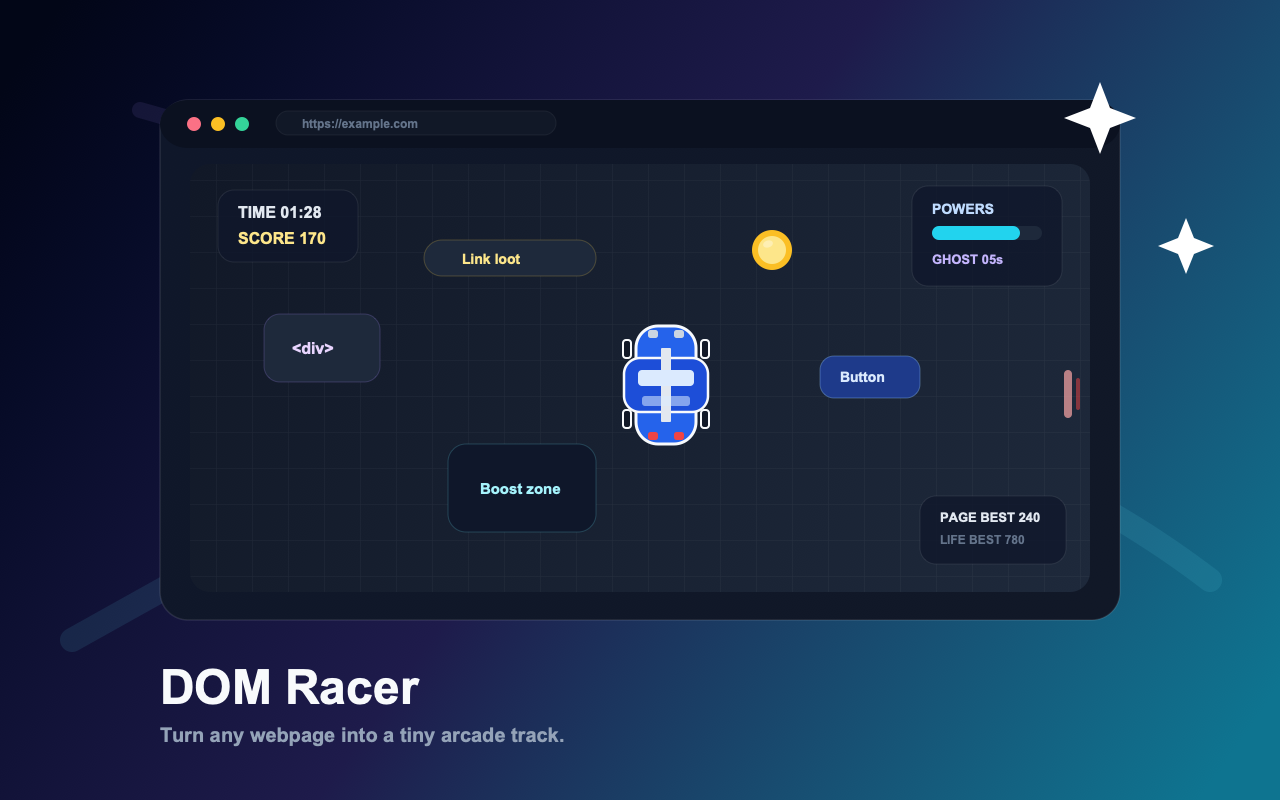
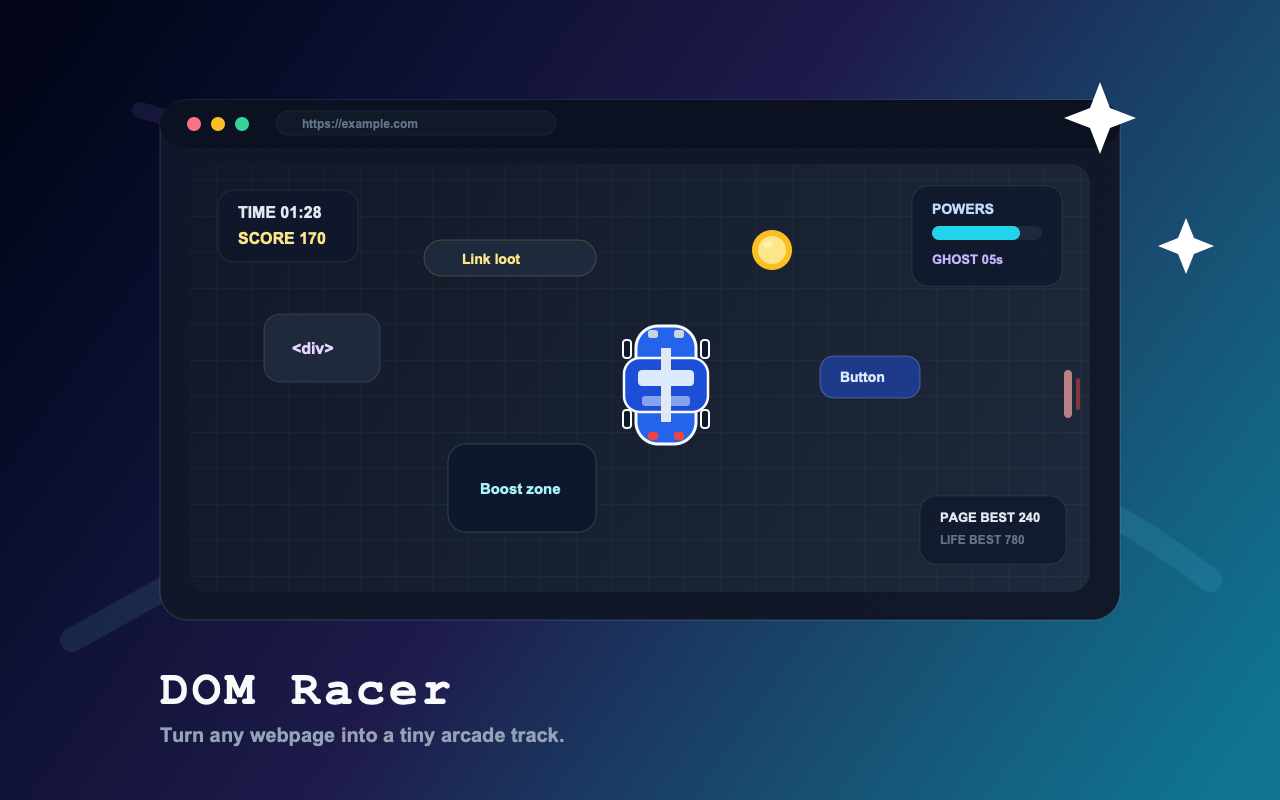
phase 15: style system, branding & docs — popup unification, pixel-art wordmark, README truth pass
- Popup visual language unified with in-game HUD: accent stripe bars, darker background, minimal rounding, cyan key badges, shape-prefixed special tags
- Pixel-art block-character wordmark replaces car ASCII art in README, branding SVG text switched to monospace
- README shortened (~160→~120 lines), inaccurate claims fixed (text=slow zones, form controls=overgrowth surfaces)
- Store listing refreshed: stale hotkeys, removed specials, scoring references corrected

Made-with: Cursor

Changed region(s): [[0.125, 0.8125, 0.3438, 0.9062]]

diff --git a/public/popup.html b/public/popup.html
@@ -15,7 +15,7 @@
 
       body {
         width: 300px;
-        background: #0f172a;
+        background: #020617;
         color: #e2e8f0;
         font-family: 'SFMono-Regular', 'JetBrains Mono', 'Consolas', 'Menlo',
           monospace;
@@ -37,7 +37,7 @@
       .header img {
         width: 36px;
         height: 36px;
-        border-radius: 6px;
+        border-radius: 2px;
       }
 
       .header-text h1 {
@@ -63,10 +63,19 @@
       .section-label {
         font-size: 9px;
         font-weight: 700;
-        color: #475569;
+        color: #94a3b8;
         letter-spacing: 1.5px;
         text-transform: uppercase;
         margin-bottom: 6px;
+        padding-top: 8px;
+      }
+
+      .section-label-controls {
+        border-top: 2px solid rgba(34, 211, 238, 0.88);
+      }
+
+      .section-label-powerups {
+        border-top: 2px solid rgba(168, 85, 247, 0.82);
       }
 
       .controls-table {
@@ -76,7 +85,7 @@
       }
 
       .controls-table tr {
-        border-bottom: 1px solid #1e293b;
+        border-bottom: 1px solid rgba(148, 163, 184, 0.15);
       }
 
       .controls-table tr:last-child {
@@ -96,7 +105,7 @@
       .key {
         display: inline-block;
         background: #1e293b;
-        color: #f59e0b;
+        color: #22d3ee;
         border: 1px solid #334155;
         border-radius: 3px;
         padding: 1px 5px;
@@ -115,7 +124,7 @@
       .special-tag {
         font-size: 8px;
         padding: 2px 5px;
-        border-radius: 3px;
+        border-radius: 2px;
         font-weight: 700;
         letter-spacing: 0.5px;
       }
@@ -168,7 +177,7 @@
         font-weight: 700;
         font-family: inherit;
         padding: 4px 8px;
-        border-radius: 4px;
+        border-radius: 2px;
         text-decoration: none;
         letter-spacing: 0.3px;
         transition: background 0.15s;
@@ -189,7 +198,7 @@
         margin-bottom: 12px;
         padding: 6px;
         background: #1e293b;
-        border-radius: 4px;
+        border-radius: 2px;
       }
 
       .hotkey-hint .key {
@@ -204,7 +213,7 @@
         background: rgba(34, 211, 238, 0.18);
         color: #22d3ee;
         border: 1px solid rgba(34, 211, 238, 0.36);
-        border-radius: 4px;
+        border-radius: 2px;
         font-family: inherit;
         font-size: 11px;
         font-weight: 700;
@@ -245,7 +254,7 @@
       Press <span class="key">Shift+Space</span> on any page to play
     </div>
 
-    <div class="section-label">Controls</div>
+    <div class="section-label section-label-controls">Controls</div>
     <table class="controls-table">
       <tr>
         <td>Drive</td>
@@ -273,17 +282,17 @@
       </tr>
     </table>
 
-    <div class="section-label">Power-ups</div>
+    <div class="section-label section-label-powerups">Power-ups</div>
     <div class="specials">
-      <span class="special-tag good">BONUS</span>
-      <span class="special-tag good">MAGNET</span>
-      <span class="special-tag good">GHOST</span>
-      <span class="special-tag good">INVERT</span>
-      <span class="special-tag bad">BLUR</span>
-      <span class="special-tag bad">OIL SLICK</span>
-      <span class="special-tag bad">REVERSE</span>
-      <span class="special-tag wild">MYSTERY</span>
-      <span class="special-tag rare">JACKPOT</span>
+      <span class="special-tag good">▲ BONUS</span>
+      <span class="special-tag good">▲ MAGNET</span>
+      <span class="special-tag good">▲ GHOST</span>
+      <span class="special-tag good">▲ INVERT</span>
+      <span class="special-tag bad">◆ BLUR</span>
+      <span class="special-tag bad">◆ OIL SLICK</span>
+      <span class="special-tag bad">◆ REVERSE</span>
+      <span class="special-tag wild">? MYSTERY</span>
+      <span class="special-tag rare">★ JACKPOT</span>
     </div>
 
     <div class="footer">

diff --git a/README.md b/README.md
@@ -1,28 +1,30 @@
 # DOM Racer
 
 ```
-                  ┌──────┐
-          ┌───┐   │▄▄▄▄▄▄│   ┌───┐
-          │░░░│   │      │   │░░░│
-          └───┘   │ ┌──┐ │   └───┘
-                  │ │  │ │
-                  │ └──┘ │
-          ┌───┐   │      │   ┌───┐
-          │░░░│   │▄▄▄▄▄▄│   │░░░│
-          └───┘   └──────┘   └───┘
+       ████    ███   █   █
+       █   █  █   █  ██ ██
+       █   █  █   █  █ █ █
+       █   █  █   █  █   █
+       ████    ███   █   █
+
+████    ███    ████  █████  ████
+█   █  █   █  █      █      █   █
+████   █████  █      ████   ████
+█  █   █   █  █      █      █  █
+█   █  █   █   ████  █████  █   █
 ```
 
 **Your browser tab is a racetrack. You just don't know it yet.**
 
-DOM Racer is a Chrome / Edge extension that scans whatever page you're on and turns it into a tiny top-down arcade arena. Links become loot. Text becomes walls. Images become ice. Buttons become coins. Police show up when you get too comfortable. A propeller plane drops weird gifts from the sky. The page you were reading five seconds ago is now a hostile little world, and you love it.
+DOM Racer is a Chrome / Edge extension that scans any webpage and turns it into a top-down arcade arena. Links and buttons become coins. Text slows you down. Form fields grow weeds. Police show up, a biplane drops gifts from the sky, and the page you were reading is now a hostile little world.
 
 ![Normal run on GitHub Issues page](assets/screenshot-normal-run.png)
 
 ## Every Page Plays Different
 
-A docs page is a maze of text walls. A dashboard is a wide-open racetrack with scattered buttons. A landing page is a slippery ice rink full of hero images. You never know what the track will look like until you hit the hotkey — and that's the whole point.
+A docs page is a maze of slow zones. A dashboard is a wide-open track with scattered coins. A landing page is a slippery ice rink full of hero images. You never know what the track will look like until you hit the hotkey.
 
-The difficulty curve is simple: the longer you survive, the weirder it gets. Coins to chase. Power-ups to grab. Police cars that punish overstaying your welcome. A biplane that drops surprises across the map. Bushes that literally grow out of the walls and close off your escape routes. It starts clean. It doesn't stay clean.
+The longer you survive, the weirder it gets. Power-ups to grab. Police that punish overstaying. A biplane dropping surprises. Grass that grows into bushes and trees, closing off your escape routes. It starts clean. It doesn't stay clean.
 
 ## Get It Running
 
@@ -55,23 +57,15 @@ You can also start the game from the extension popup button.
 
 ## What Happens During a Run
 
-**Coins everywhere.** Every link and button on the page becomes a gold coin. Drive through them. That's your score.
-
-**Power-ups spawn in.** Nine specials drop into free space as you play — some help, some mess with you, one is a total mystery. Grab them all anyway. (See the full list below.)
-
-**Police show up.** Stay alive long enough and a cop car spawns at the edge of the screen with flashing sirens. Outrun it or get busted. The longer your run, the longer they chase.
-
-**A plane flies over.** A propeller biplane crosses the arena and drops one of five things: bonus pickups, a trail of coins, a spotlight on a hidden special, a lucky wind that nudges coins your way, or a brief police delay. You'll hear the drone coming.
-
-**The page fights back.** After ~35 seconds, bushes and trees start sprouting from walls and barriers, slowly eating into your driving lanes. Small bumps become speed traps become full walls. The map tightens. Your routes get riskier.
-
-**Goals appear.** A few seconds into a run, you get a quiet coin-collection challenge: grab N coins in X seconds. Nail it for a score bonus (+20 to +40). Miss it, no penalty — another one shows up after a cooldown.
-
-**Near-misses feel great.** Thread the gap between your car and a wall or police cruiser and the HUD flashes — CLOSE! TIGHT! RAZOR! — with a burst of particles. No score bonus, just the thrill.
-
-**Daily modifiers.** Every day the rules twist a little: double coins, faster police, slippery surfaces, early overgrowth, extra specials. It's the same page, but today it's different.
-
-**Nitro boost.** Hit `Space` for a short speed burst. 3 second cooldown between uses. The cooldown varies by vehicle.
+- Every link and button becomes a gold coin — drive through them for score
+- Nine power-ups spawn into open space as you play — some help, some hurt, one is a mystery
+- Police show up after a while with flashing sirens — outrun them or get busted
+- A propeller biplane crosses the arena dropping bonus pickups, coin trails, or lucky wind
+- After ~35s, grass sprouts from obstacles, grows into bushes, then trees — your lanes shrink
+- Coin-collection goals appear mid-run — hit them for +20 to +40 bonus points
+- Thread the gap near walls or police for a near-miss flash (no score, just style)
+- Daily modifiers twist the rules: double coins, faster police, slippery surfaces, and more
+- Hit `Space` for a nitro burst — cooldown varies by vehicle
 
 **Three vehicles, three feels.** Unlocked by hitting lifetime score milestones. Swap mid-game with `V`.
 
@@ -101,25 +95,25 @@ Active effects show a countdown timer in the top-right HUD panel.
 
 ## How the World Is Built
 
-This is the genuinely cool part. DOM Racer scans your visible page and translates real HTML elements into game geometry:
+DOM Racer scans your visible page and translates real HTML elements into game geometry:
 
-- **Text blocks** → wall slices (using actual visible text bounds)
+- **Text blocks** → slow zones (car slows down)
 - **Links & buttons** → gold coin pickups
-- **Images & pictures** → ice surfaces (slippery!)
+- **Form controls** (inputs, textareas, selects) → slow zones + overgrowth surfaces
+- **Images, video, canvas** → ice surfaces (slippery!)
 - **Fixed UI near edges** → barriers
-- **SVGs & reactive surfaces** → speed boosts
+- **SVGs & colorful surfaces** → speed boosts
 - **Empty space** → where specials spawn mid-run
 
-The result is intentionally game-ish, not pixel-perfect. The goal is to preserve the *feel* of the page while making it fun to drive through. A GitHub Issues page plays nothing like a Wikipedia article, and that's the whole point.
+The result is intentionally game-ish, not pixel-perfect. A GitHub Issues page plays nothing like a Wikipedia article, and that's the whole point.
 
 ## Tips
 
-- **Try different websites** — every page generates a unique track. Wikipedia, GitHub, blogs, news sites, docs all play completely differently.
-- **The buggy** turns fast and recharges nitro quickly — great for tight pages with lots of text walls.
-- **The truck** has raw speed but turns like a boat — best for open pages with long stretches.
-- **Watch for the airplane** — listen for the propeller drone and follow the drop.
-- **After ~35 seconds**, bushes grow from walls and close off routes. Plan your escape lanes early.
-- **Some pages won't work** — heavily iframe'd apps like Gmail or Figma don't have enough scannable content. You'll see a friendly "not enough to race on" screen.
+- **Try different websites** — every page generates a unique track
+- **The buggy** turns fast and recharges nitro quickly — great for tight pages
+- **The truck** has raw speed but turns like a boat — best for open stretches
+- **Listen for the airplane** — follow the propeller drone to the drop
+- **After ~35s**, overgrowth closes off routes — plan your lanes early
 
 ## Privacy
 

diff --git a/docs/store-listing.md b/docs/store-listing.md
@@ -12,22 +12,21 @@ Turn any webpage into a tiny arcade track — collect coins, dodge police, and s
 
 DOM Racer turns any webpage into a tiny arcade track.
 
-Press Shift+R on any page and the text becomes walls, images become ice zones, links become coins, and buttons become loot. Every page plays differently — a docs page is a text maze, a dashboard is an open racetrack, a landing page is a slippery ice rink.
+Press Shift+Space on any page and links become coins, text becomes slow zones, images become ice, and form fields sprout weeds. Every page plays differently — a docs page is a slow-zone maze, a dashboard is an open racetrack, a landing page is a slippery ice rink.
 
 GAMEPLAY
 • Collect gold coins scattered across the page for score
-• Grab power-ups: BONUS, MAGNET, GHOST, BLACKOUT, COOLDOWN, LURE, and the rare golden JACKPOT
+• Grab power-ups: BONUS, MAGNET, GHOST, INVERT, BLUR, OIL SLICK, REVERSE, MYSTERY, and the rare golden JACKPOT
 • Dodge police chases with flashing sirens and a proper GAME OVER screen
 • Watch for airplane flyovers that drop bonus coins, specials, and lucky wind
-• Survive the overgrowth — bushes and trees slowly grow from walls, narrowing your routes
-• Land near-misses for style points (CLOSE! TIGHT! RAZOR! WHEW!)
-• Complete micro-objectives: collect N coins in X seconds for x2/x3/x4 bonus multipliers
+• Survive the overgrowth — grass sprouts from obstacles, grows into bushes, then trees, narrowing your routes
+• Thread near-misses against walls and police for a satisfying visual flash (CLOSE! TIGHT! RAZOR!)
+• Complete micro-objectives: collect N coins in X seconds for +20/+30/+40 bonus points
 
 DAILY VARIETY
 Each day brings a different rule twist — double coins, fast police, extra specials, slippery surfaces, or early overgrowth. Come back tomorrow for a new challenge.
 
 PROGRESSION
-• Earn letter grades (D through S-rank) on every run
 • Track your run count, page bests, and lifetime score
 • Unlock the Buggy and Truck by hitting score milestones
 • Hit lifetime milestones for surprise celebration toasts
@@ -35,7 +34,7 @@ PROGRESSION
 PRIVACY
 No data collection. No analytics. No network requests. Everything stays on your device.
 
-Controls: WASD/arrows to drive, R to restart, V to switch vehicle, M for sound, Esc to quit.
+Controls: WASD/arrows to drive, Space for nitro, R to restart, V to switch vehicle, M for sound, Esc to quit. Press Shift+Space to start.
 
 ## Category
 
